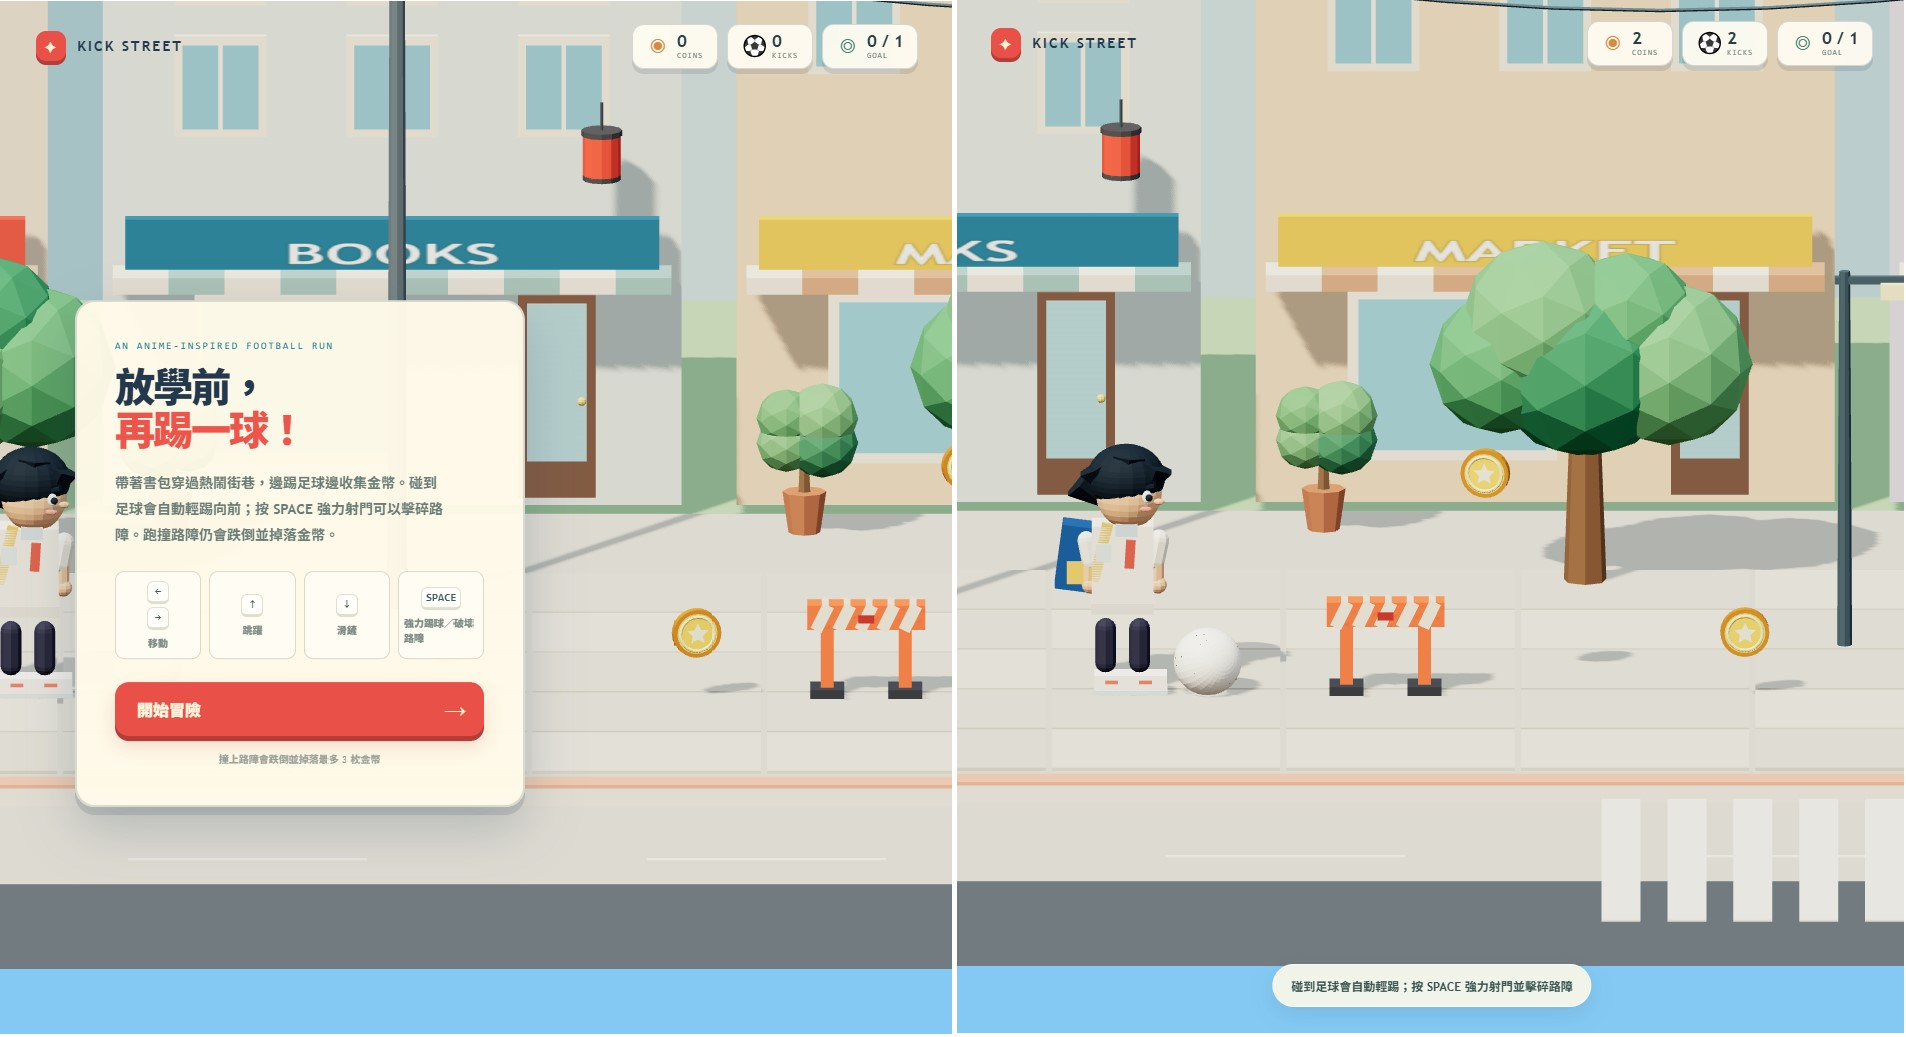
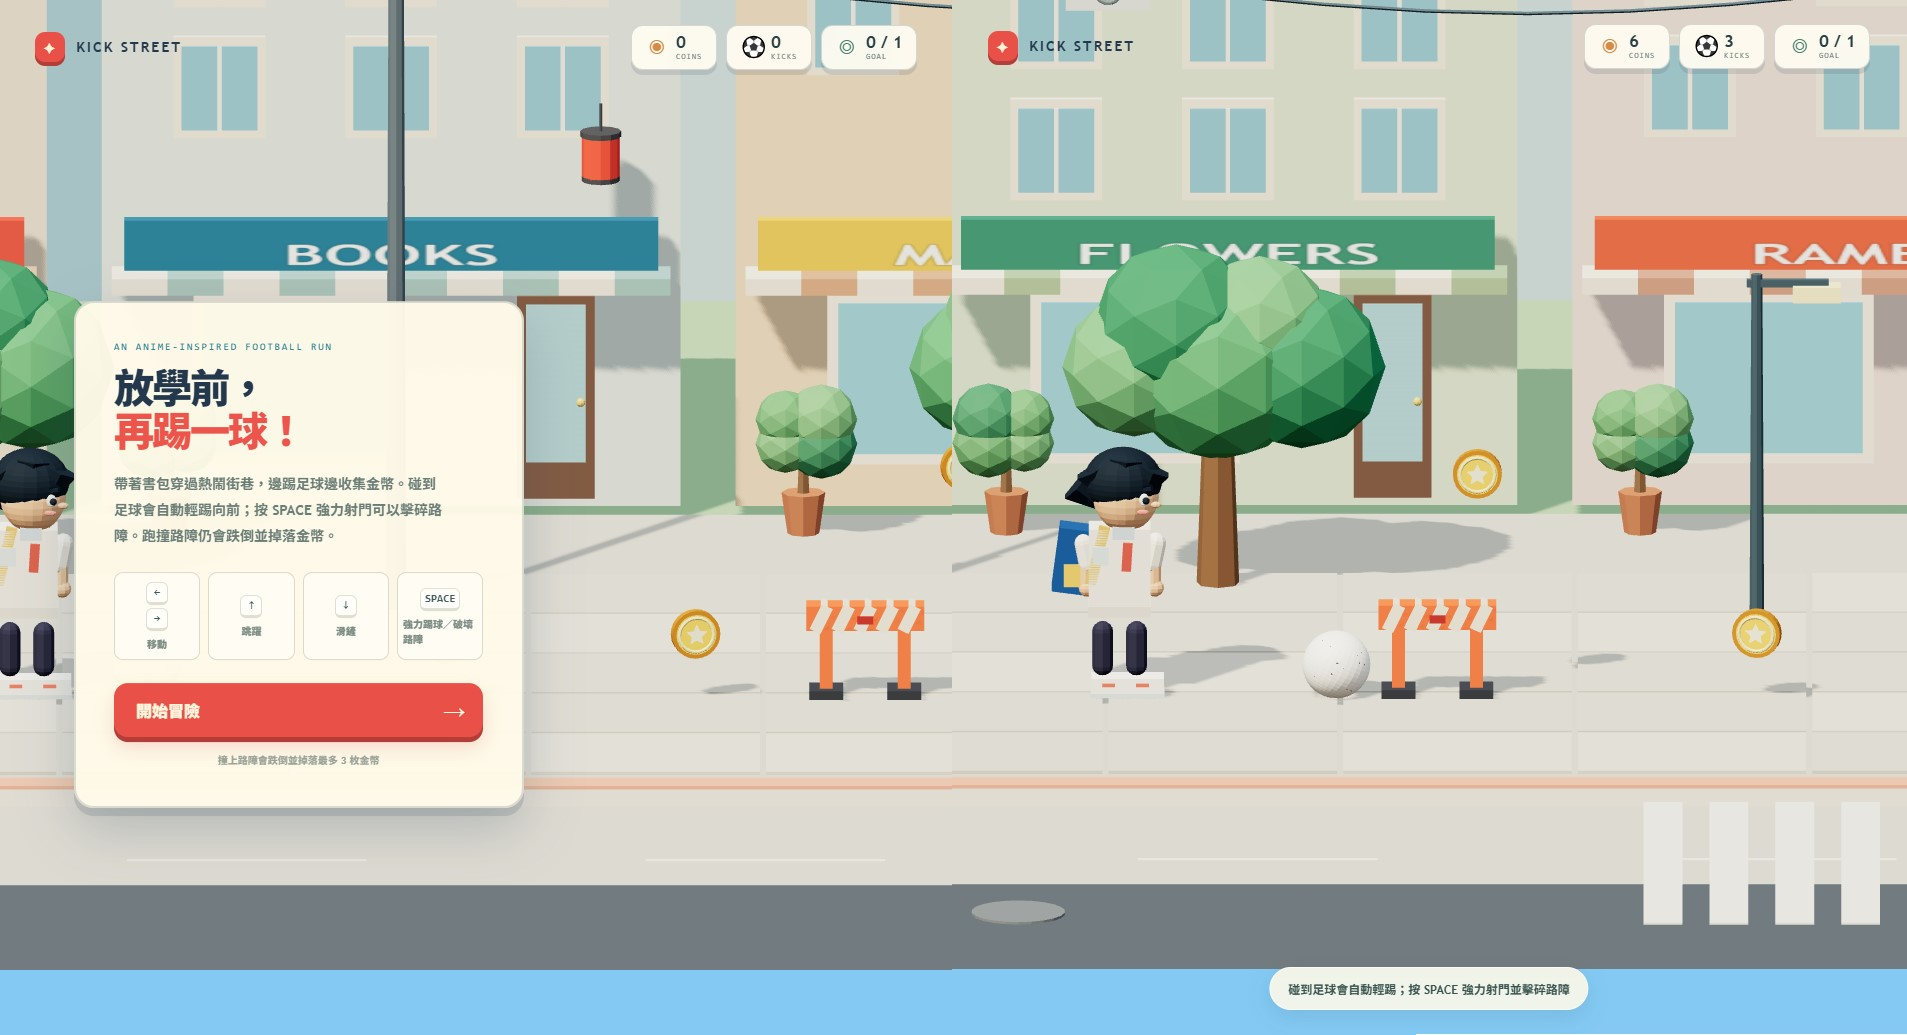
chore: add kick.jpg to README.md

diff --git a/README.md b/README.md
@@ -2,6 +2,8 @@
 
 一款使用 Three.js + TypeScript 製作的原創純網頁足球冒險遊戲。視覺方向參考《Kick》公開預告中的動漫風 2.5D 橫向冒險、城市街道、收集金幣與躲避障礙等一般風格特徵；遊戲角色、街景、標誌、幾何素材與程式皆為原創，沒有匯入原作截圖或素材。
 
+![Kick Street 遊戲畫面](./kick.jpg)
+
 ## 開始遊玩
 
 需求：Node.js 22.12+、npm，以及支援 WebGL 的現代瀏覽器。
